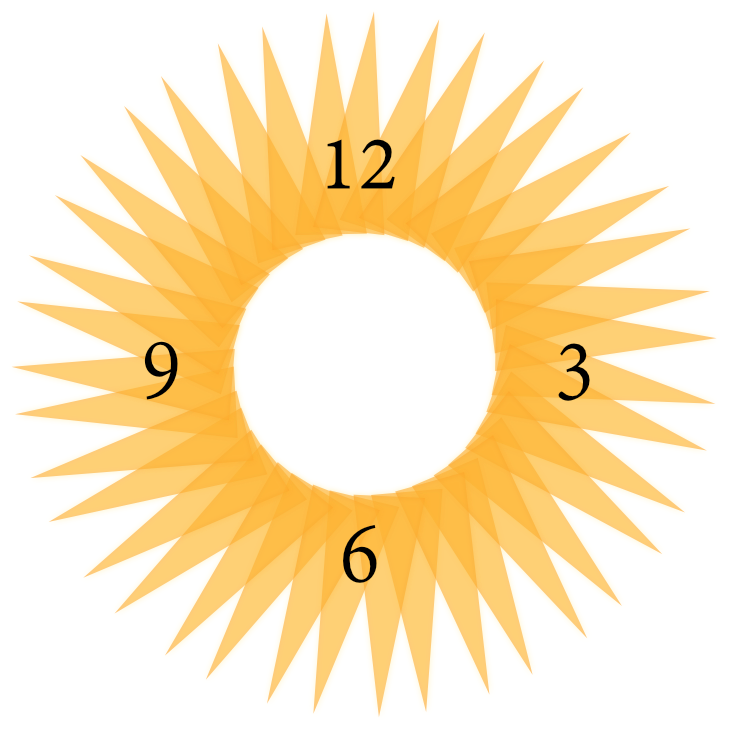
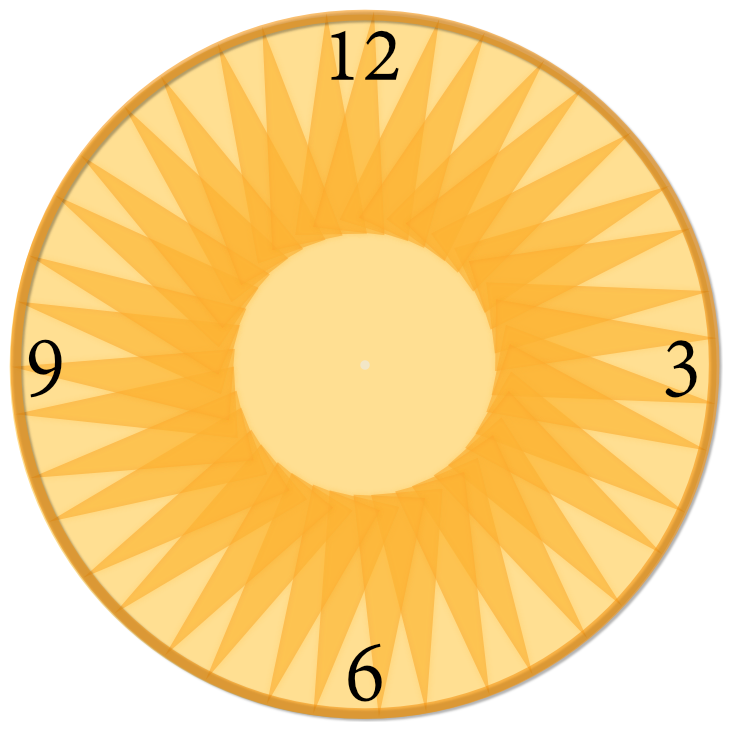
cleaned up extra variables, trying to line up sun as background instead of image

diff --git a/index.html b/index.html
@@ -8,123 +8,102 @@
     <link type="image/png" rel="icon" href="images/myFavicon.png" />
 
     <style type="text/css">
-        html {
-          box-sizing: border-box;
-          font-family: "Open Sans", "Tahoma", sans-serif;
-          color: #ebac30;
-          text-shadow: 1px 1px 1px rgba(0, 0, 0, 0.1);
-          font-size: 18px;
-        }
+      html {
+        box-sizing: border-box;
+        font-family: "Open Sans", "Tahoma", sans-serif;
+        color: #ebac30;
+        text-shadow: 1px 1px 1px rgba(0, 0, 0, 0.1);
+        font-size: 18px;
+      }
 
-        body {
-          background-color: #bdb9b9;
-          background: #2a4fca; /* fallback for old browsers */
-          background: -webkit-linear-gradient(
-            to right,
-            #1999bd,
-            #13138d
-          ); /* Chrome 10-25, Safari 5.1-6 */
-          background: linear-gradient(
-            to right,
-            #1999bd,
-            #13138d
-          ); /* W3C, IE 10+/ Edge, Firefox 16+, Chrome 26+, Opera 12+, Safari 7+ */
+      body {
+        background-color: #bdb9b9;
+        background: #2a4fca; /* fallback for old browsers */
+        background: -webkit-linear-gradient(
+          to right,
+          #2d96ff,
+          #13138d
+        ); /* Chrome 10-25, Safari 5.1-6 */
+        background: linear-gradient(
+          to right,
+          #2d96ff,
+          #13138d
+        ); /* W3C, IE 10+/ Edge, Firefox 16+, Chrome 26+, Opera 12+, Safari 7+ */
+        background-attachment: fixed;
+      }
 
-          background-attachment: fixed;
-          background-size: cover;
-          background-position: center;
+      *,
+      *:before,
+      *:after {
+        box-sizing: inherit;
+      }
 
-          margin: auto;
-          width: 40%;
+      hr {
+        margin: 20px auto;
+        border: 3px rgba(0, 0, 0, 0.1) solid;
+        box-shadow: 2px 2px 1px rgba(0, 0, 0, 0.1);
+        border-radius: 10px;
+        width: 400px;
+      }
 
-          height: 100%;
-        }
+      h1,
+      h2,
+      h3,
+      h4,
+      h5 {
+        font-family: "Verdana", sans-serif;
+        margin: 5px 0;
+        text-align: center;
+      }
 
-        *,
-        *:before,
-        *:after {
-          box-sizing: inherit;
-        }
+      h1 {
+        font-size: 3rem;
+      }
 
-        hr {
-          margin: 10px;
-          border: 3px rgba(0, 0, 0, 0.1) solid;
-          box-shadow: 2px 2px 1px rgba(0, 0, 0, 0.1);
-          border-radius: 10px;
-        }
+      h2 {
+        font-size: 2rem;
+      }
 
-        h1,
-        h2,
-        h3,
-        h4,
-        h5 {
-          font-family: "Verdana", sans-serif;
-          margin: 5px 0;
-          text-align: center;
-        }
+      h3 {
+        font-size: 1.7rem;
+      }
 
-        h1 {
-          font-size: 3rem;
-        }
+      h4 {
+        font-size: 1.3rem;
+      }
 
-        h2 {
-          font-size: 2rem;
-        }
+      .sunImage {
+        background: url("images/sun.png") no-repeat center;
+        width: 500px;
+        margin-top: 30px;
+        position: absolute;
+        top: 5vh;
+        left: 60vh;
+      }
 
-        h3 {
-          font-size: 1.7rem;
-        }
+      .hourHand {
+        height: 10px;
+        width: 200px;
 
-        h4 {
-          font-size: 1.3rem;
-        }
+        background: #ff5a00;
+        border: 2px black solid;
+        border-radius: 40px;
 
-        #sunImage {
-          width: 40%;
-          min-width: 300px;
-          margin-top: 30px;
-          position: relative;
+        margin-top: 30px;
 
-        }
+        position: absolute;
+        top: 33vh;
+        left: 66vh;
 
-        .minuteHand {
-      <!--     width: 50%;
-          height: 6px;
-          background: black;
-          position: absolute;
-          top: 50%;
-          transform-origin: 100%;
-          transform: rotate(90deg);
-          transition: all 0.05s;
-          transition-timing-function: cubic-bezier(0.1, 2.7, 0.58, 1); -->
-        }
-
-        .hourHand {
-          height:10px;
-          width: 15%;
-          min-width: 100px;
-
-          background:white;
-          border: 2px black solid;
-          border-radius: 40px;
-
-          position:absolute;
-          top:50%;
-
-          <!-- transform-origin: 100%; -->
-        }
+        transform-origin: 100%;
+      }
     </style>
   </head>
   <body>
-    <h1>Javascript Clock</h1>
-    <hr />
-    <img src="images/sun.png" alt="background" id="sunImage" />
-
-    <div class="minuteHand"></div>
-    <div class="hourHand"></div>
+    <article class="sunImage"><div class="hourHand"></div></article>
   </body>
   <script>
     const hourHand = document.querySelector(".hourHand");
-    hourHand.style.transform = `rotate(10deg)`;
+    hourHand.style.transform = `rotate(20deg)`;
   </script>
 </html>
